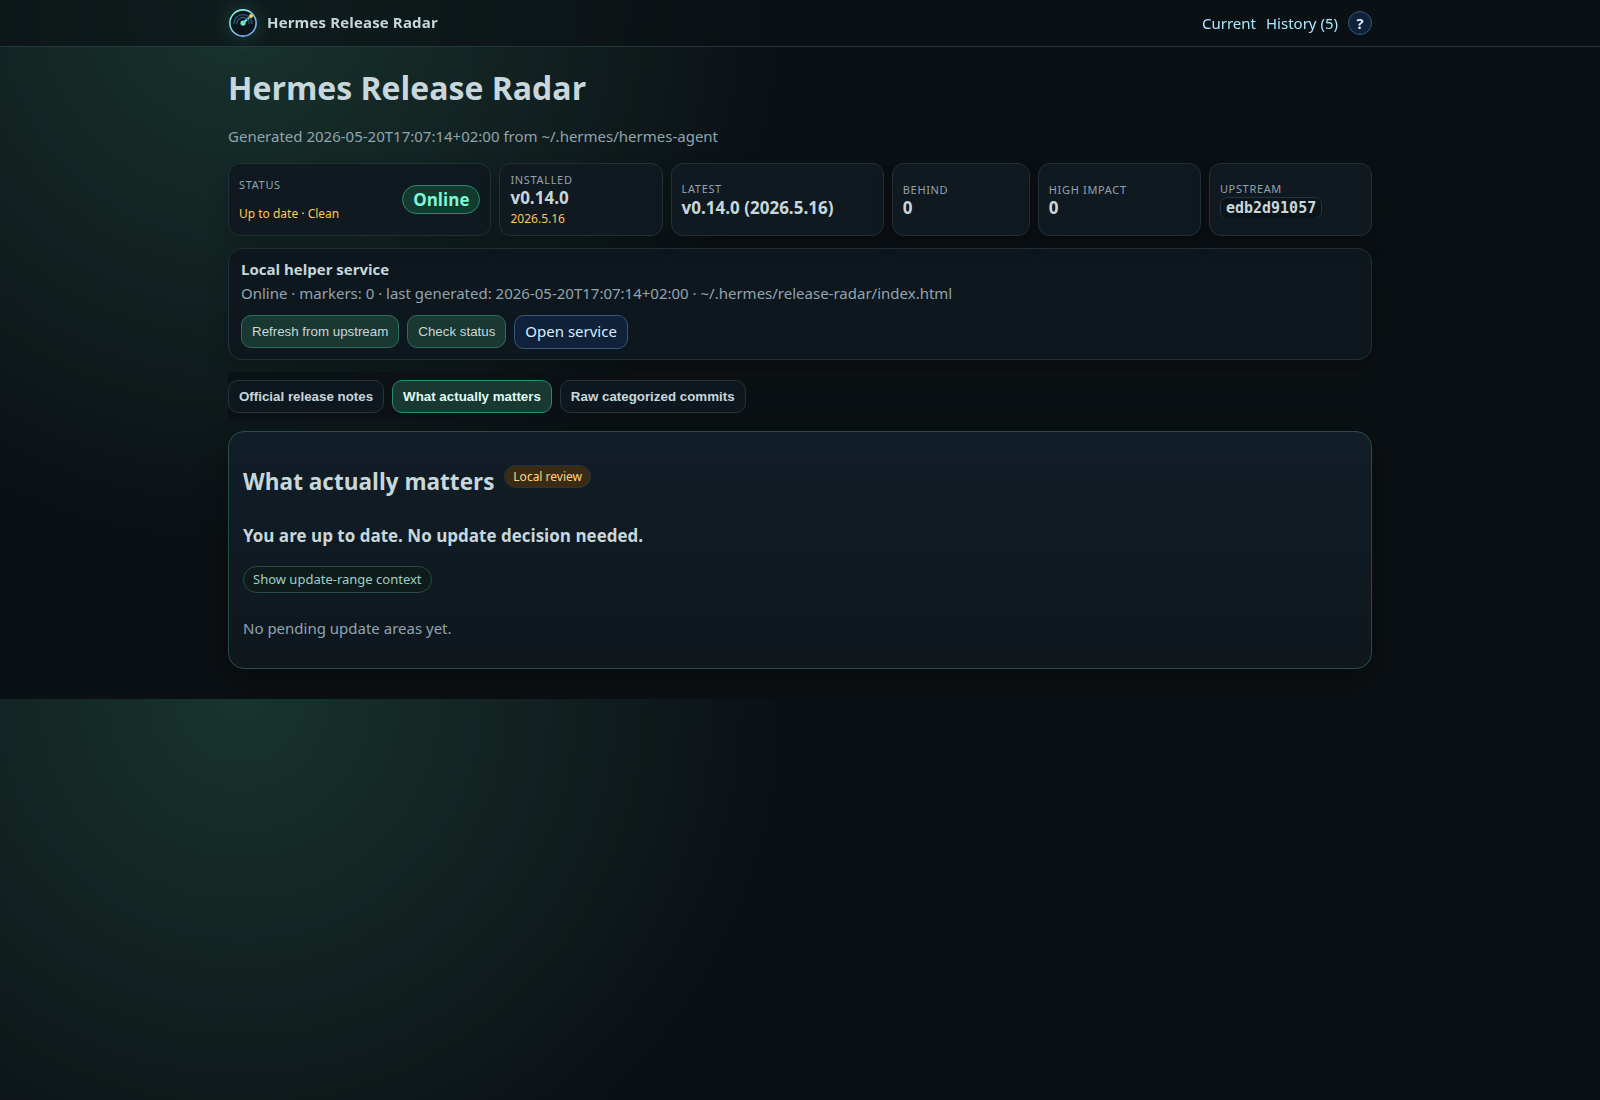
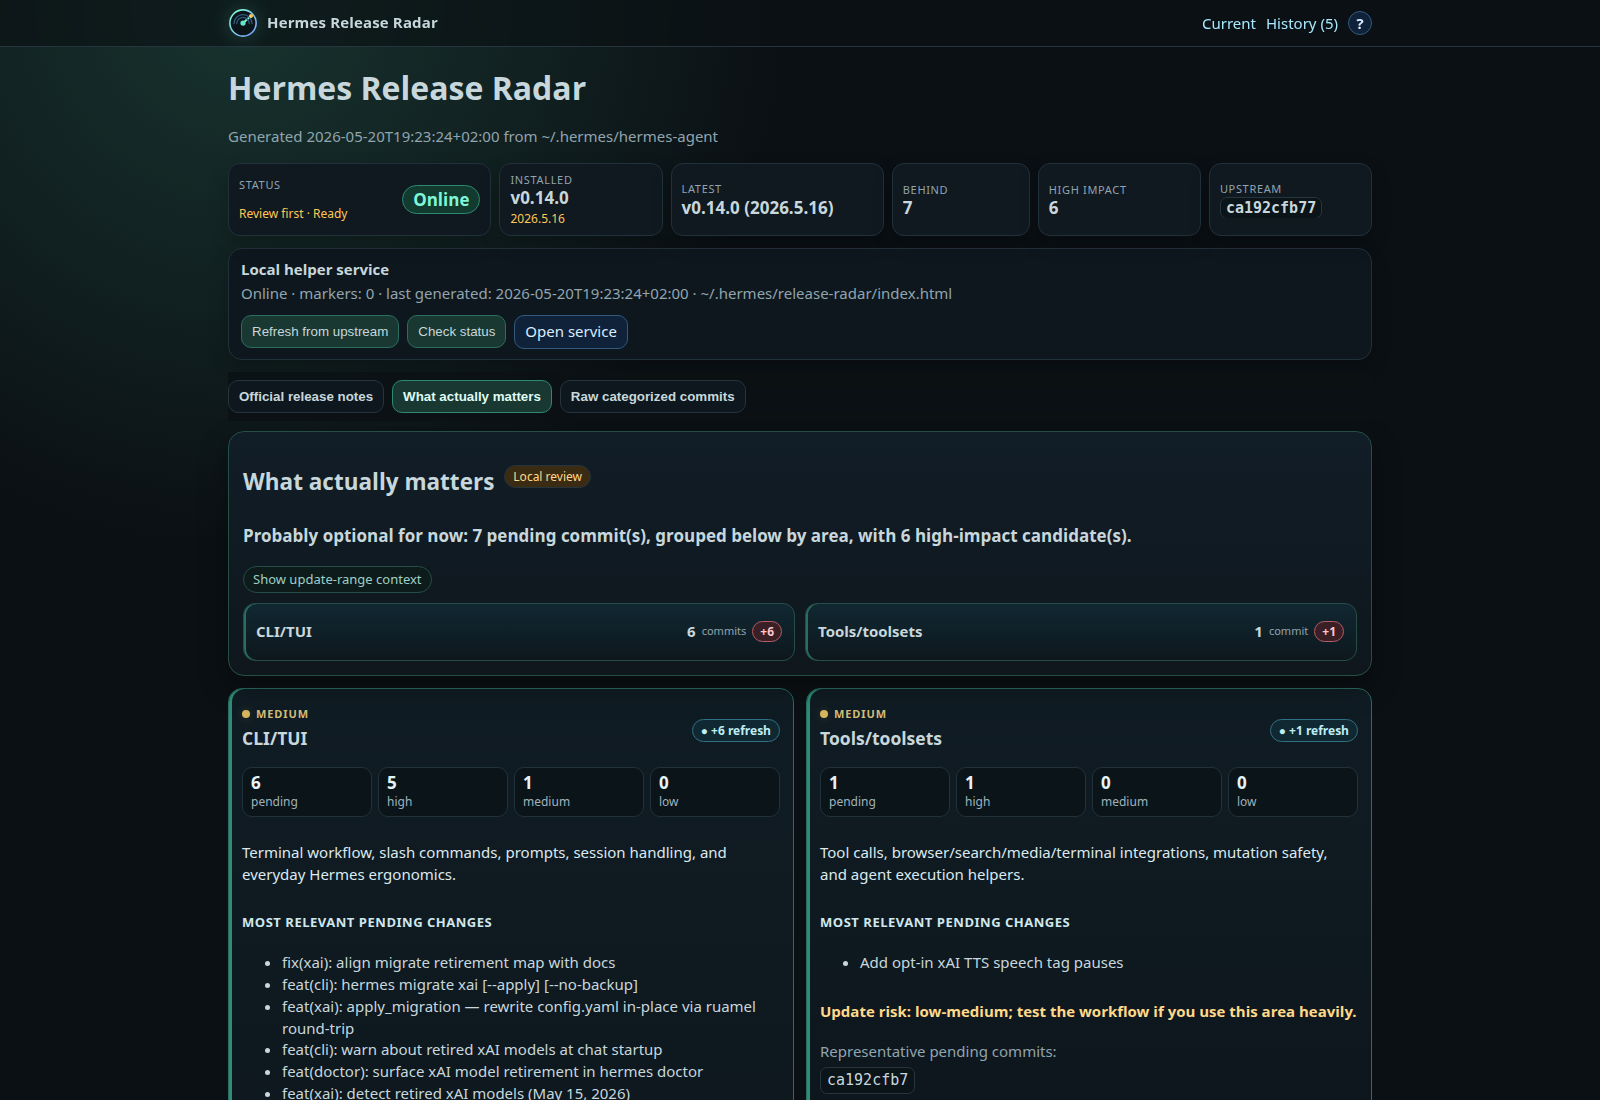
docs: refresh matters screenshot

diff --git a/README.md b/README.md
@@ -53,7 +53,7 @@ Set these environment variables only if your Hermes checkout, runtime folder, ho
 
 Human-readable impact cards summarize the important change clusters first, with representative commits still visible for auditability.
 
-![What actually matters view](docs/assets/screenshots/what-actually-matters.png?v=20260520-screenshots)
+![What actually matters view](docs/assets/screenshots/what-actually-matters.png?v=20260520-matters-content)
 
 ### Raw categorized commits
 